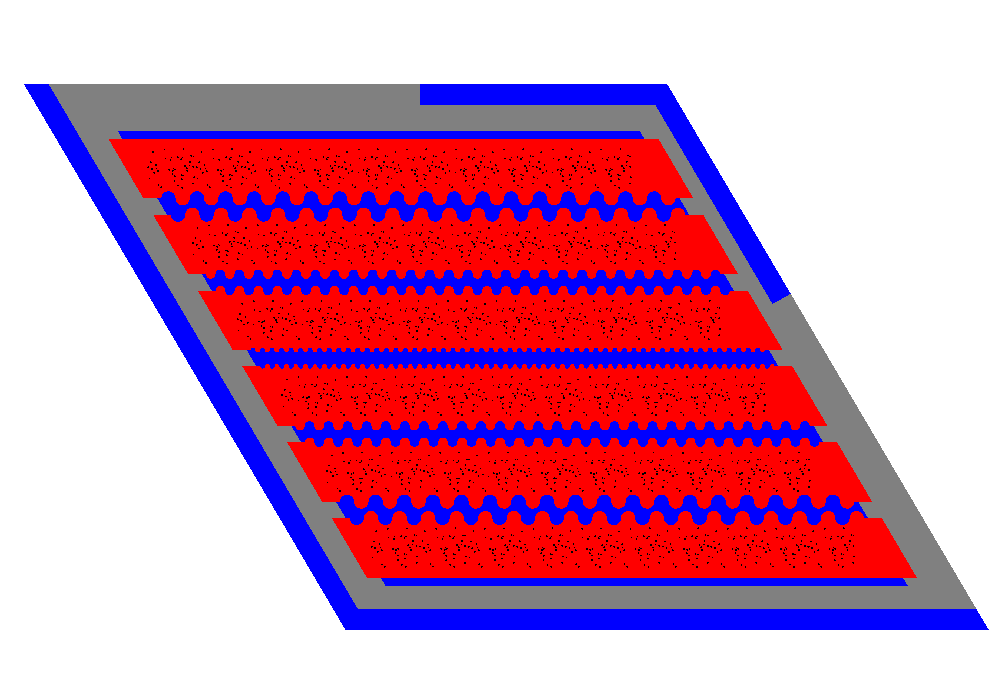
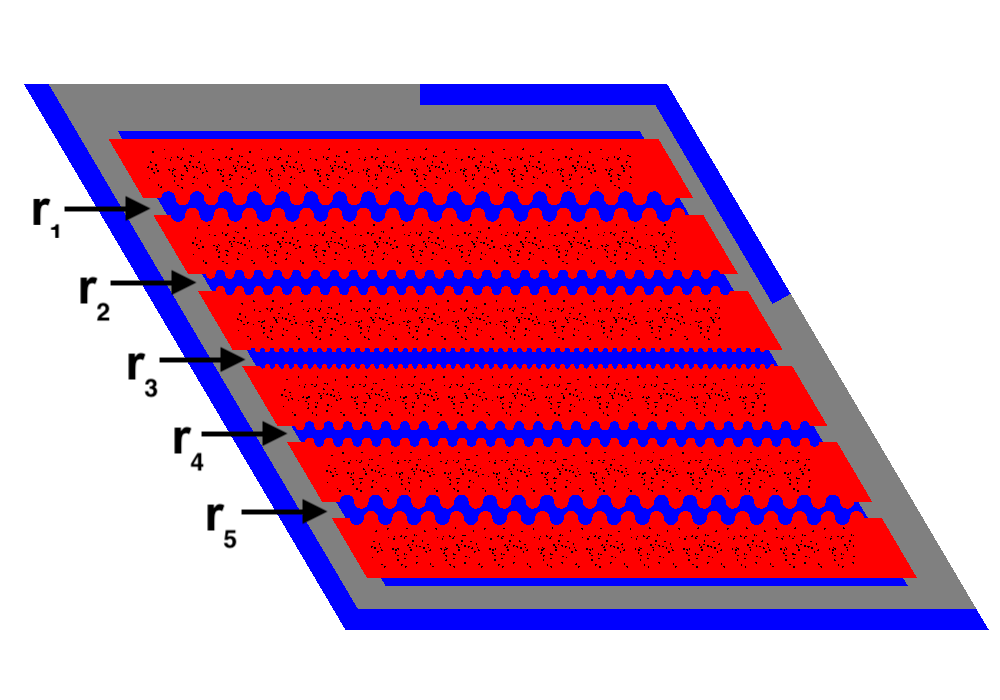
edits

diff --git a/docs/ahtr_rollo_assem.tex b/docs/ahtr_rollo_assem.tex
@@ -294,6 +294,35 @@ Table \ref{tab:simulationa1d} shows simulation a-1d's optimization problem param
     \hline
     \end{tabular}
 \end{table}
+Figure \ref{fig:coolant-channel-shape-assem-2} shows a \gls{AHTR} one-third 
+assembly's inter-plank coolant channel shapes for 
+$r_1, r_2, r_3, r_4, r_5 = 0.3, 0.2, 0.1, 0.2, 0.3$ to remind readers the 
+orientation of each r value. 
+\begin{figure}[htbp]
+    \centering
+    \begin{subfigure}{.8\textwidth}
+    \includegraphics[width=\linewidth]{coolant-channel-shape-assem.png}
+    \end{subfigure}%
+    \begin{subfigure}{.2\textwidth}
+        \begin{tikzpicture}
+            \draw[ thick,-latex] (0,0) -- (1,0) node[anchor=south west] {$x$};
+            \draw[ thick,-latex] (0,0) -- (0,1) node[anchor=south west] {$y$};
+            \draw[ thick,-latex] (0,0) -- (1,1) node[anchor=south west] {$z$};
+           \tkzText[above](-0.3,-0.7){}
+        \end{tikzpicture} 
+        \vspace{1cm}
+        \resizebox{1.2\textwidth}{!}{
+        \fbox{\begin{tabular}{ll}
+            \textcolor{fhrblue}{$\blacksquare$} & \gls{FLiBe} \\
+            \textcolor{fhrgrey}{$\blacksquare$} & Graphite (structure)\\
+            \textcolor{fhrred}{$\blacksquare$} & Graphite (fuel plank) \\
+            \textcolor{fhrblack}{$\blacksquare$} & TRISO particle 
+            \end{tabular}}}
+    \end{subfigure}
+    \caption{\acrfull{AHTR} one-third assembly example with coolant channel shape 
+    variation, $r_1, r_2, r_3, r_4, r_5 = 0.3cm, 0.2cm, 0.1cm, 0.2cm, 0.3cm$.}
+    \label{fig:coolant-channel-shape-assem-2}
+\end{figure}
 
 Figure \ref{fig:a-1d} shows the plots of coolant channel shape's 
 $r_1, r_2, r_3, r_4,$ and $r_5$ values against $PF_{total}$. 
@@ -405,7 +434,7 @@ assembly model with the most-minimized $T_{max}$.
         \begin{subfigure}{0.7\textwidth}
             \includegraphics[width=\linewidth]{assem-obj-1-temp-most-minimized.png}
             \end{subfigure}%
-            \begin{subfigure}{.3\textwidth}
+            \begin{subfigure}[t]{.3\textwidth}
                 \begin{tikzpicture}
                     \draw[ thick,-latex] (0,0) -- (1,0) node[anchor=south west] {$x$};
                     \draw[ thick,-latex] (0,0) -- (0,1) node[anchor=south west] {$y$};
